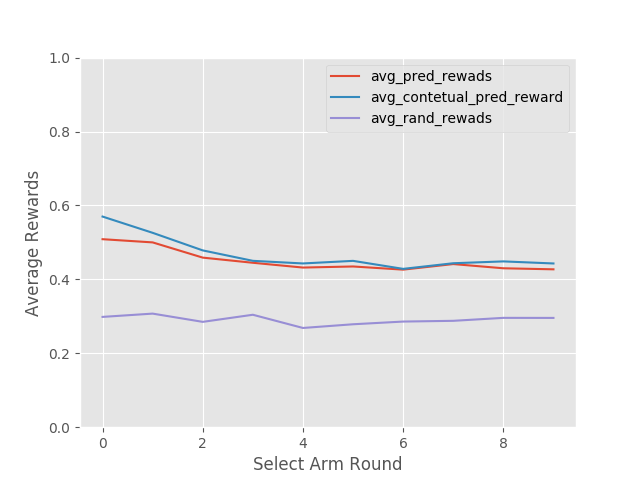
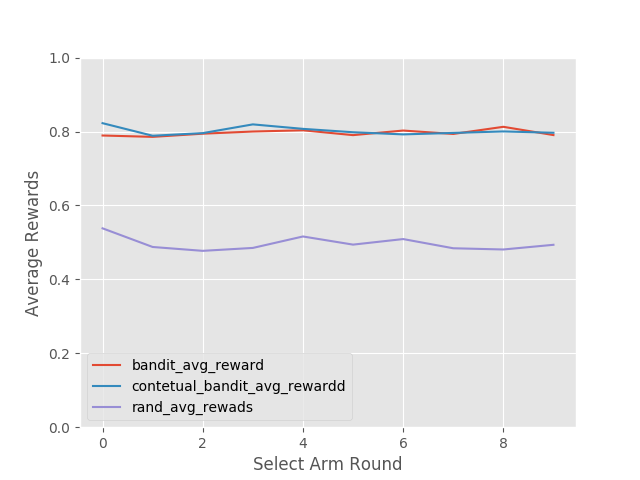
fitting 部分の高速化

diff --git a/example/contextual_mautiArm_bandit.py b/example/contextual_mautiArm_bandit.py
@@ -3,6 +3,7 @@ import sys
 sys.path.append(os.pardir)
 
 import numpy as np
+import pandas as pd
 import matplotlib.pyplot as plt
 plt.style.use('ggplot')
 
@@ -11,30 +12,33 @@ from sklearn.linear_model import LogisticRegression
 from bandit import EpsilonGreedy
 
 
-def generate_data(n_arm=5, n_samples=10000, is_context=False, feature_dim=5, random_state=42):
+def generate_data(n_arm=5, n_samples=10000, is_context=False, feature_dim=5, random_state=None):
     np.random.seed(random_state)
 
     if is_context:
         # TODO: もっといいfeatureID の与え方ないかな、。。
-        feature_id = np.arange(n_samples)
-        feature_data = np.c_[feature_id, np.random.rand(n_samples, feature_dim)]
-        arm_weights = np.random.rand(n_arm, feature_dim) / 2
-        arm_weights = arm_weights / arm_weights.sum(axis=0)
-
+        feature_id = np.arange(n_samples).astype(np.int64)
+        feature_data = np.random.rand(n_samples, feature_dim)
         pulled_arms = np.random.randint(n_arm, size=n_samples)
 
+        # arm_weights = np.random.rand(n_arm, feature_dim)
+        arm_weights = np.tile(np.arange(0.1, 1, 1 / n_arm), (feature_dim, 1)).T
+        print(arm_weights)
+        arm_weights = np.abs(arm_weights - (np.eye(n_arm, feature_dim) / 2))
+
         rewards = []
-        for i, arm_id in enumerate(pulled_arms):
-            theta = np.dot(feature_data[i][1:], arm_weights[arm_id].T)
-            noise = np.dot(np.random.rand(feature_dim), arm_weights[arm_id].T)
-            reward = (theta > noise).astype(np.int8)
+        for f_data, arm_id in zip(feature_data, pulled_arms):
+            theta = np.dot(f_data, arm_weights[arm_id, :].T) / (feature_dim / 2)
+            reward = (theta > np.random.rand()).astype(np.int8)
             rewards.append(reward)
 
         trial_data = np.c_[feature_id, pulled_arms, rewards]
         return feature_data, trial_data, arm_weights
     else:
         feature_id = np.arange(n_samples)
-        weights = np.random.rand(n_arm) / 2
+
+        arm_weights = np.arange(0.1, 1, 1 / n_arm)
+        weights = arm_weights
         pulled_arms = np.random.randint(n_arm, size=n_samples)
         theta = np.random.rand(n_samples)
 
@@ -58,19 +62,20 @@ def plot_result(result_dict, dst_filename):
 def main():
     n_arm = 5
     n_samples = 10000
-    is_contextual = False
+    is_contextual = True
     feature_dim = 20
 
     # Generate Data
     feature_data, trial_data, weight = generate_data(n_arm, n_samples, is_contextual, feature_dim)
+    print(pd.DataFrame(trial_data).groupby(1)[2].mean())
 
-    # Define Variables
-    batch_size = 1000
-    result_dict = {'avg_pred_rewads': [], 'avg_contetual_pred_reward': [], 'avg_rand_rewads': []}
+    # Define Model
     bandit_model = EpsilonGreedy(n_arm)
     contextual_bandit_model = EpsilonGreedy(n_arm)
 
-    # bandit_model にコンテキストを与える
+    # Define Variables
+    batch_size = 1000
+    result_dict = {'bandit_avg_reward': [], 'contetual_bandit_avg_rewardd': [], 'rand_avg_rewads': []}
     if is_contextual:
         attr = {'solver': 'lbfgs'}
         base_estimator = LogisticRegression
@@ -89,22 +94,19 @@ def main():
         # アームの選択（予測）、選ばれたアームから報酬を計算
         selected_arms = bandit_model.select_arm(batch_data)
         is_observed = (batch_data[:, 1] == selected_arms)
-        avg_pred_reward = batch_data[is_observed, 2].mean()
-        result_dict['avg_pred_rewads'].append(avg_pred_reward)
+        result_dict['bandit_avg_reward'].append(batch_data[is_observed, 2].mean())
 
         # Contextual Bandit モデルの更新
         contextual_bandit_model.update(trial_data[:end])
         # アームの選択（予測）、選ばれたアームから報酬を計算
         selected_arms = contextual_bandit_model.select_arm(batch_data)
         is_observed = (batch_data[:, 1] == selected_arms)
-        avg_contetual_pred_reward = batch_data[is_observed, 2].mean()
-        result_dict['avg_contetual_pred_reward'].append(avg_contetual_pred_reward)
+        result_dict['contetual_bandit_avg_rewardd'].append(batch_data[is_observed, 2].mean())
 
         # ランダムにアームを選択した場合の報酬を計算
         rand_selected_arms = np.random.randint(n_arm, size=(end))
         is_observed = (batch_data[:, 1] == rand_selected_arms)
-        avg_rand_reward = batch_data[is_observed, 2].mean()
-        result_dict['avg_rand_rewads'].append(avg_rand_reward)
+        result_dict['rand_avg_rewads'].append(batch_data[is_observed, 2].mean())
 
     # 辞書型
     plot_result(result_dict, '../images/main/result.png')

diff --git a/bandit.py b/bandit.py
@@ -43,13 +43,8 @@ class EpsilonGreedy(BaseBandit):
         # アームごとにestimator を学習
         for arm_id in range(self.n_arm):
             is_matched_arm = (trial_data[:, 1] == arm_id)
-            # TODO: もっとうまく書けないのかな。
-            f = self.feature_data
-            f_id = f[:, 0]
-            f_data = f[:, 1:]
-            mated_f_idx = np.array([np.where(f_id == i)[0] for i in trial_data[is_matched_arm, 0]]).flatten()
 
-            X = f_data[mated_f_idx]
+            X = self.feature_data[trial_data[is_matched_arm, 0]]
             y = trial_data[is_matched_arm, 2]
 
             self.estimators[arm_id].fit(X, y)
@@ -71,12 +66,7 @@ class EpsilonGreedy(BaseBandit):
 
     def _get_contextual_selected_arm(self, trial_data):
         pulling_feature_id = trial_data[:, 0]
-        # TODO: もっとうまく書けないのかな。
-        f = self.feature_data
-        f_id = f[:, 0]
-        f_data = f[:, 1:]
-        mated_f_idx = np.array([np.where(f_id == i)[0] for i in pulling_feature_id]).flatten()
-        X = f_data[mated_f_idx]
+        X = self.feature_data[trial_data[pulling_feature_id, 0]]
 
         each_arm_proba = np.array([e.predict_proba(X)[:, 1] for e in self.estimators]).T
         return each_arm_proba.argmax(axis=1)
